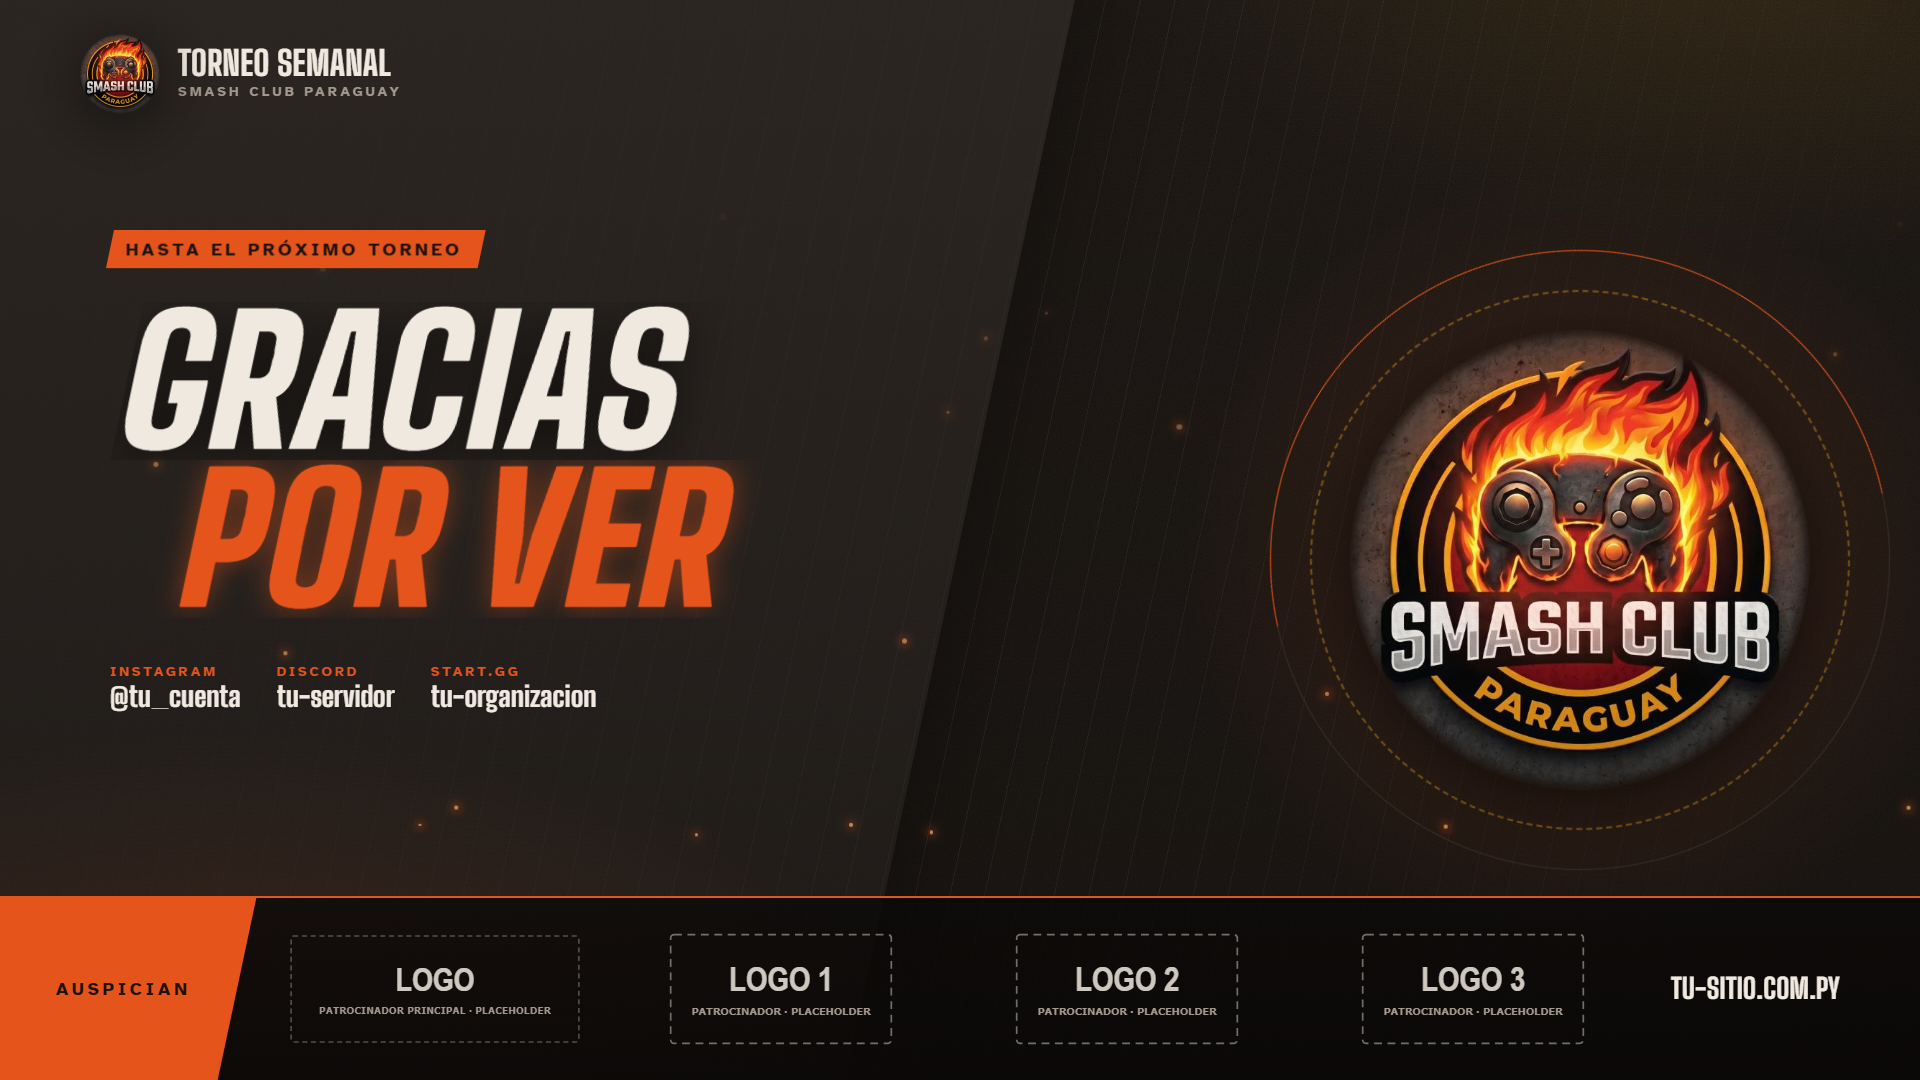
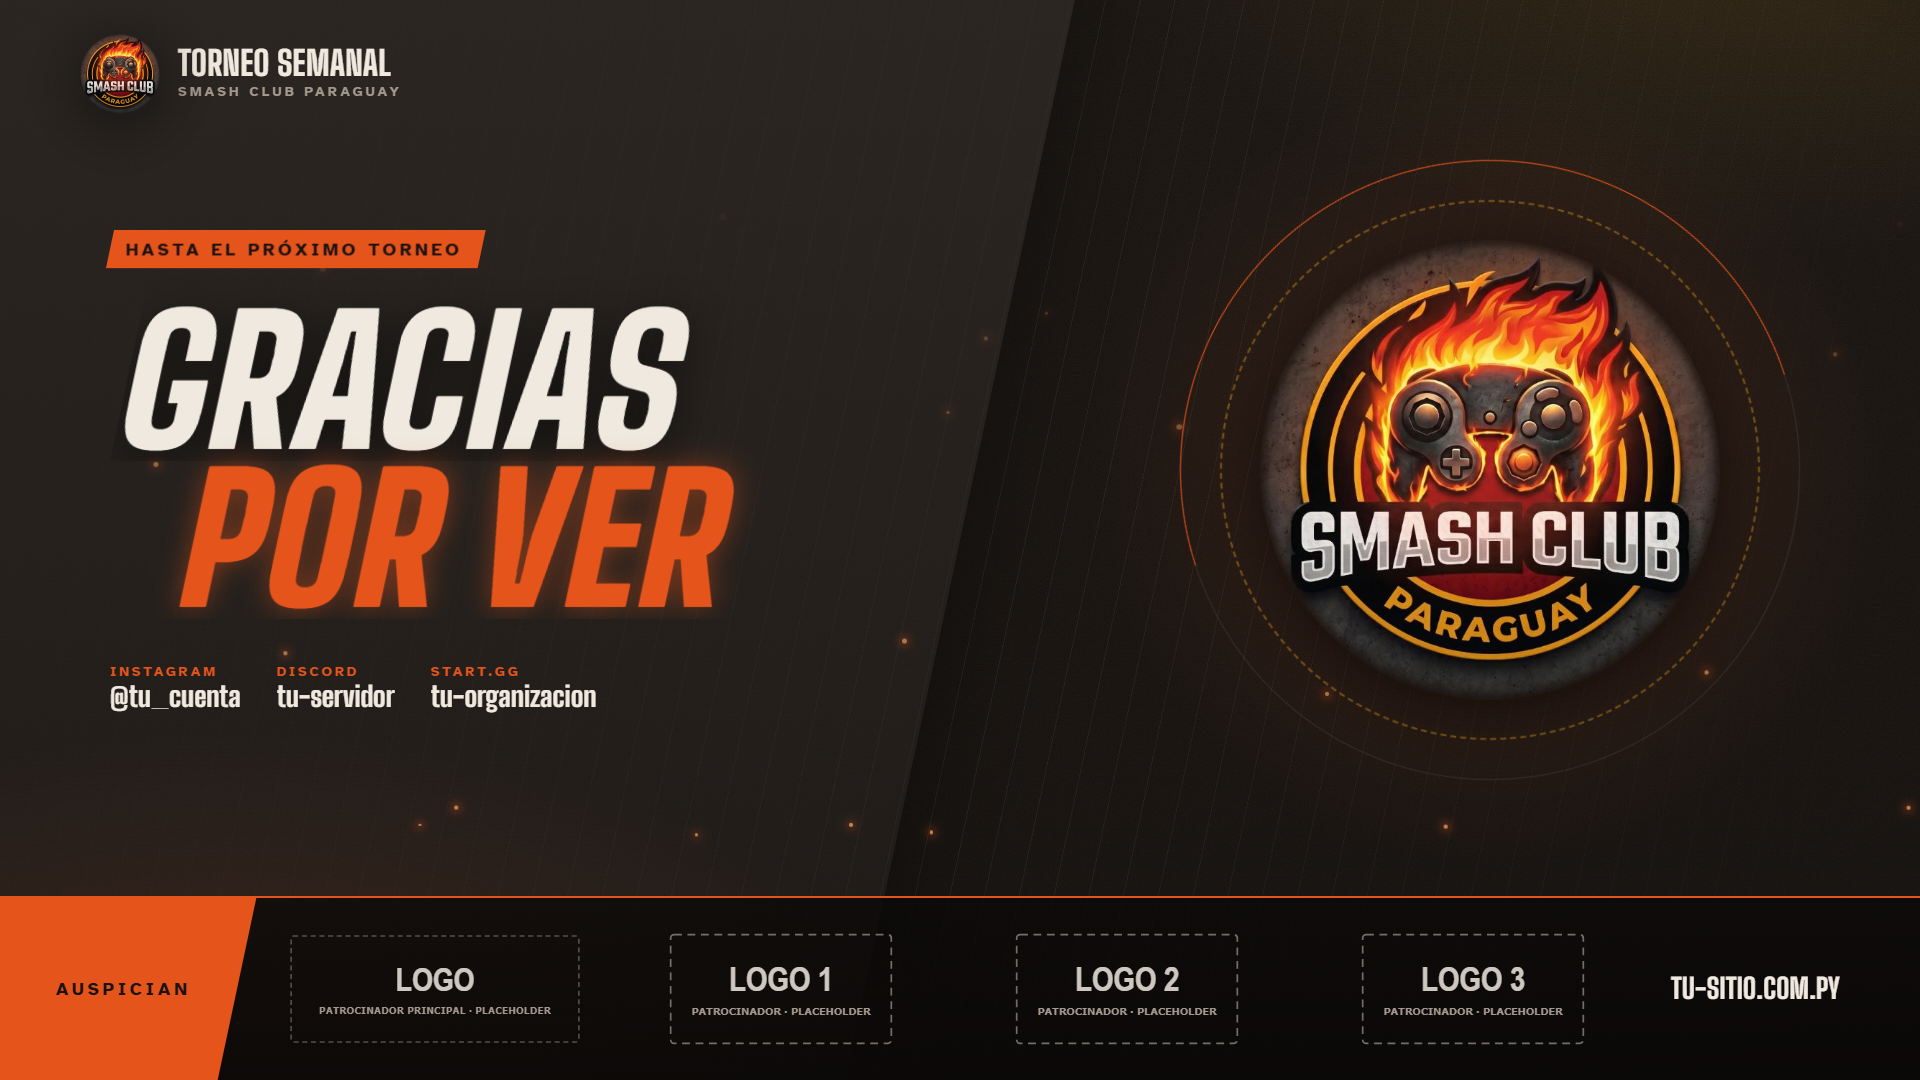
fix: centre ring emblems in their area and add Center Stage socials (SH-OBS-01)
The emblem stacks glow, rings and logo in a one-cell grid; the glow is
larger than the container, so the cell grew and the whole emblem drifted
about 100 px right and down on starting soon and ending. The cell now
matches the container. Center Stage places the emblem at the centre of
its free area (starting soon: left strip under the sponsor bar; ending:
right strip), per the requested layout.

Large self-fitting titles no longer clip accents and the Ñ.
Center Stage socials (Instagram @centerstagepy, start.gg/CSPY) live in
the profile; the stream package drops redes and sitio from evento.js and
points to the profile.

Changed region(s): [[0.6562, 0.2139, 0.9375, 0.7333], [0.875, 0.2444, 0.9062, 0.275]]

diff --git a/stream-assets/obs-overlays/assets/css/starting-soon.css b/stream-assets/obs-overlays/assets/css/starting-soon.css
@@ -10,6 +10,13 @@
   display: grid;
   place-items: center;
 }
+/* Una sola celda del tamaño del contenedor: la luz (más grande) desborda hacia
+   los dos lados y todo queda centrado en el contenedor. Sin esto, la celda se
+   agrandaba al tamaño de la luz y el conjunto se corría a la derecha y abajo. */
+.emblema {
+  grid-template-columns: 100%;
+  grid-template-rows: 100%;
+}
 .emblema > * {
   grid-area: 1 / 1;
 }
@@ -173,9 +180,30 @@
 }
 
 /* ------------------------------------------------------------------ auspiciantes arriba */
-/* Emblema alineado con el bloque de título de la derecha (centro y ≈ 560) */
+/* Anillos y logo centrados en su zona: la franja izquierda, entre el borde y el
+   bloque del título, debajo de la barra. Centro en (360, 490), 640 px. */
 .auspicio-arriba .escena-inicio .emblema {
-  top: 210px;
+  left: 40px;
+  top: 170px;
+  width: 640px;
+  height: 640px;
+}
+.auspicio-arriba .escena-inicio .emblema-luz {
+  width: 800px;
+  height: 800px;
+}
+.auspicio-arriba .escena-inicio .anillo-1 {
+  width: 540px;
+  height: 540px;
+}
+.auspicio-arriba .escena-inicio .anillo-2 {
+  width: 620px;
+  height: 620px;
+}
+.auspicio-arriba .escena-inicio .emblema .logo-evento,
+.auspicio-arriba .escena-inicio .emblema .logo-club {
+  width: 400px;
+  height: 400px;
 }
 .auspicio-arriba .escena-inicio .bloque {
   top: 190px;

diff --git a/stream-assets/obs-overlays/config/perfiles/center-stage.js b/stream-assets/obs-overlays/config/perfiles/center-stage.js
@@ -24,6 +24,13 @@ window.SH_PERFIL = {
   // camaras: en gameplay.html, una cámara por jugador en las esquinas inferiores.
   gameplay: { marca: false, patrocinadores: false, camaras: true },
 
+  // Redes del evento (se muestran en «Empieza pronto», auspiciantes y cierre).
+  redes: [
+    { red: "Instagram", usuario: "@centerstagepy" },
+    { red: "start.gg", usuario: "start.gg/CSPY" },
+  ],
+  sitio: "",
+
   patrocinadores: {
     // Sin principal: los once se muestran con el mismo peso. Para destacar uno,
     // poné aquí { nombre: "...", logo: "..." } y sacalo de la lista.

diff --git a/stream-assets/obs-overlays/assets/css/broadcast.css b/stream-assets/obs-overlays/assets/css/broadcast.css
@@ -475,6 +475,9 @@ body {
 .auspicio-arriba .escena-cierre .cierre {
   top: 300px;
 }
+/* Mismo criterio que «Empieza pronto»: centrado en su zona, la franja derecha
+   entre el texto y el borde (centro x ≈ 1455), alineado con el texto. */
 .auspicio-arriba .escena-cierre .emblema-cierre {
-  top: 210px;
+  top: 230px;
+  right: 145px;
 }

diff --git a/stream-assets/obs-overlays/assets/css/base.css b/stream-assets/obs-overlays/assets/css/base.css
@@ -525,3 +525,10 @@ html:not(.listo) .escena {
   width: 180px;
   height: 70px;
 }
+
+/* Títulos grandes que se achican solos: el recorte (overflow) cortaba tildes y la Ñ.
+   Se agrega aire arriba sin mover la línea. */
+.linea[data-ajustar] {
+  padding-top: 0.16em;
+  margin-top: -0.16em;
+}

diff --git a/stream-assets/obs-overlays/herramientas/empaquetar_center_stage.py b/stream-assets/obs-overlays/herramientas/empaquetar_center_stage.py
@@ -5,7 +5,7 @@ Resultado: stream-assets/dist/CENTER-STAGE-OVERLAYS.zip (carpeta center-stage-ov
 
 Qué cambia respecto del paquete completo:
 - config/evento.js con perfil "center-stage", TSH activado, fecha del evento
-  y sin textos de ejemplo (sitio, redes y comentaristas vacíos: no se muestran).
+  sin textos de ejemplo (comentaristas vacíos) y redes de Center Stage desde el perfil.
 - Sin herramientas, sin capturas de Smash Hub y sin placeholders de patrocinadores.
 - LEEME.txt de herramientas/paquete-center-stage/.
 """
@@ -35,11 +35,12 @@ def evento_center_stage(texto: str) -> str:
     t = re.sub(r'  fecha: "[^"]*",[^\n]*', f'  fecha: "{FECHA}",', t, count=1)
     t = re.sub(r'  hora: "[^"]*",[^\n]*', '  hora: "", // COMPLETAR, por ejemplo "15:00" (vacío = no se muestra)', t, count=1)
     t = re.sub(r'  lugar: "[^"]*",[^\n]*', '  lugar: "Paraguay", // COMPLETAR con la sede si se quiere mostrar', t, count=1)
-    t = re.sub(r'  sitio: "[^"]*",[^\n]*', '  sitio: "", // COMPLETAR: sitio web (vacío = no se muestra)', t, count=1)
+    # Redes y sitio vienen del perfil (si quedaran aquí, el perfil los pisaría y editar
+    # evento.js no tendría efecto): se quitan y se indica dónde están.
+    t = re.sub(r'  sitio: "[^"]*",[^\n]*\n', "", t, count=1)
     t = re.sub(
         r"  redes: \[.*?\n  \],\n",
-        "  redes: [\n    // COMPLETAR (hasta 3). Vacío = no se muestran. Ejemplo:\n"
-        '    // { red: "Instagram", usuario: "@cuenta" },\n  ],\n',
+        "  // Redes y sitio de Center Stage: en config/perfiles/center-stage.js.\n",
         t,
         count=1,
         flags=re.S,

diff --git a/docs/operations/sh-obs-01.md b/docs/operations/sh-obs-01.md
@@ -317,3 +317,15 @@ Reporte del 13/11/2026, con capturas.
 - **Logo descentrado en «Empieza pronto»:** el logo del evento se forzaba a un cuadrado de 460 × 460, pero el de Center Stage mide 1271 × 1175. Se deformaba y no quedaba centrado dentro de los anillos. Ahora usa `object-fit: contain` (440 px) y el emblema queda alineado con el bloque de título (centro y ≈ 560). En el cierre ya estaba bien.
 - **Una cámara por jugador en `gameplay.html`:** opción `gameplay.camaras` (activada en el perfil de Center Stage). Son dos cámaras de 416 × 234 (16:9) abajo a la izquierda (x 32, y 790) y abajo a la derecha (x 1472, y 790), fuera de la franja del HUD de porcentajes y stocks (x 480–1440). Cada una tiene una placa con bandera, nombre y marcador del jugador. Las cámaras van debajo de la fuente. Con la opción activada, se ocultan la marca y el auspiciante de las esquinas. Sin la opción (Smash Hub), el gameplay no cambia.
 - **Prueba:** ZIP regenerado y abierto dentro de una carpeta TSH simulada: las 10 escenas leen TSH, el gameplay muestra las dos cámaras con nombres y banderas de TSH y no hay errores.
+
+## 15. Anillos centrados en su zona y redes de Center Stage
+
+Reporte del 13/11/2026, con un dibujo de la ubicación esperada.
+
+- **El problema real era de la grilla:** el emblema (luz, anillos y logo) se apila en una grilla de una celda. La luz es más grande que el contenedor (900 px en 700), así que la celda se agrandaba y todo el conjunto se corría unos 100 px a la derecha y hacia abajo. Pasaba en «Empieza pronto» y en el cierre, con los dos temas. Ahora la celda mide lo mismo que el contenedor (`grid-template: 100% / 100%`) y la luz desborda pareja hacia los dos lados.
+- **Center Stage, «Empieza pronto»:** conjunto de 640 px centrado en (360, 490), en la franja izquierda debajo de la barra, como en el dibujo. Logo de 400 px y anillos de 540 y 620 px.
+- **Center Stage, cierre:** mismo criterio, centrado en la franja derecha (x ≈ 1455).
+- **Tildes:** los títulos grandes recortaban la tilde de la Ñ («ACOMPAÑARNOS»). Las líneas que se achican solas tienen ahora aire arriba.
+- **Redes de Center Stage:** Instagram `@centerstagepy` y start.gg `start.gg/CSPY`, sin Discord ni sitio, en el perfil. El ZIP quita `redes` y `sitio` de su `evento.js` y deja un comentario que indica dónde están, porque el perfil los pisaría.
+
+ZIP regenerado y probado dentro de la carpeta TSH simulada: las 10 escenas leen TSH, las redes aparecen en «Empieza pronto», auspiciantes y cierre, y no queda ningún texto de ejemplo.
